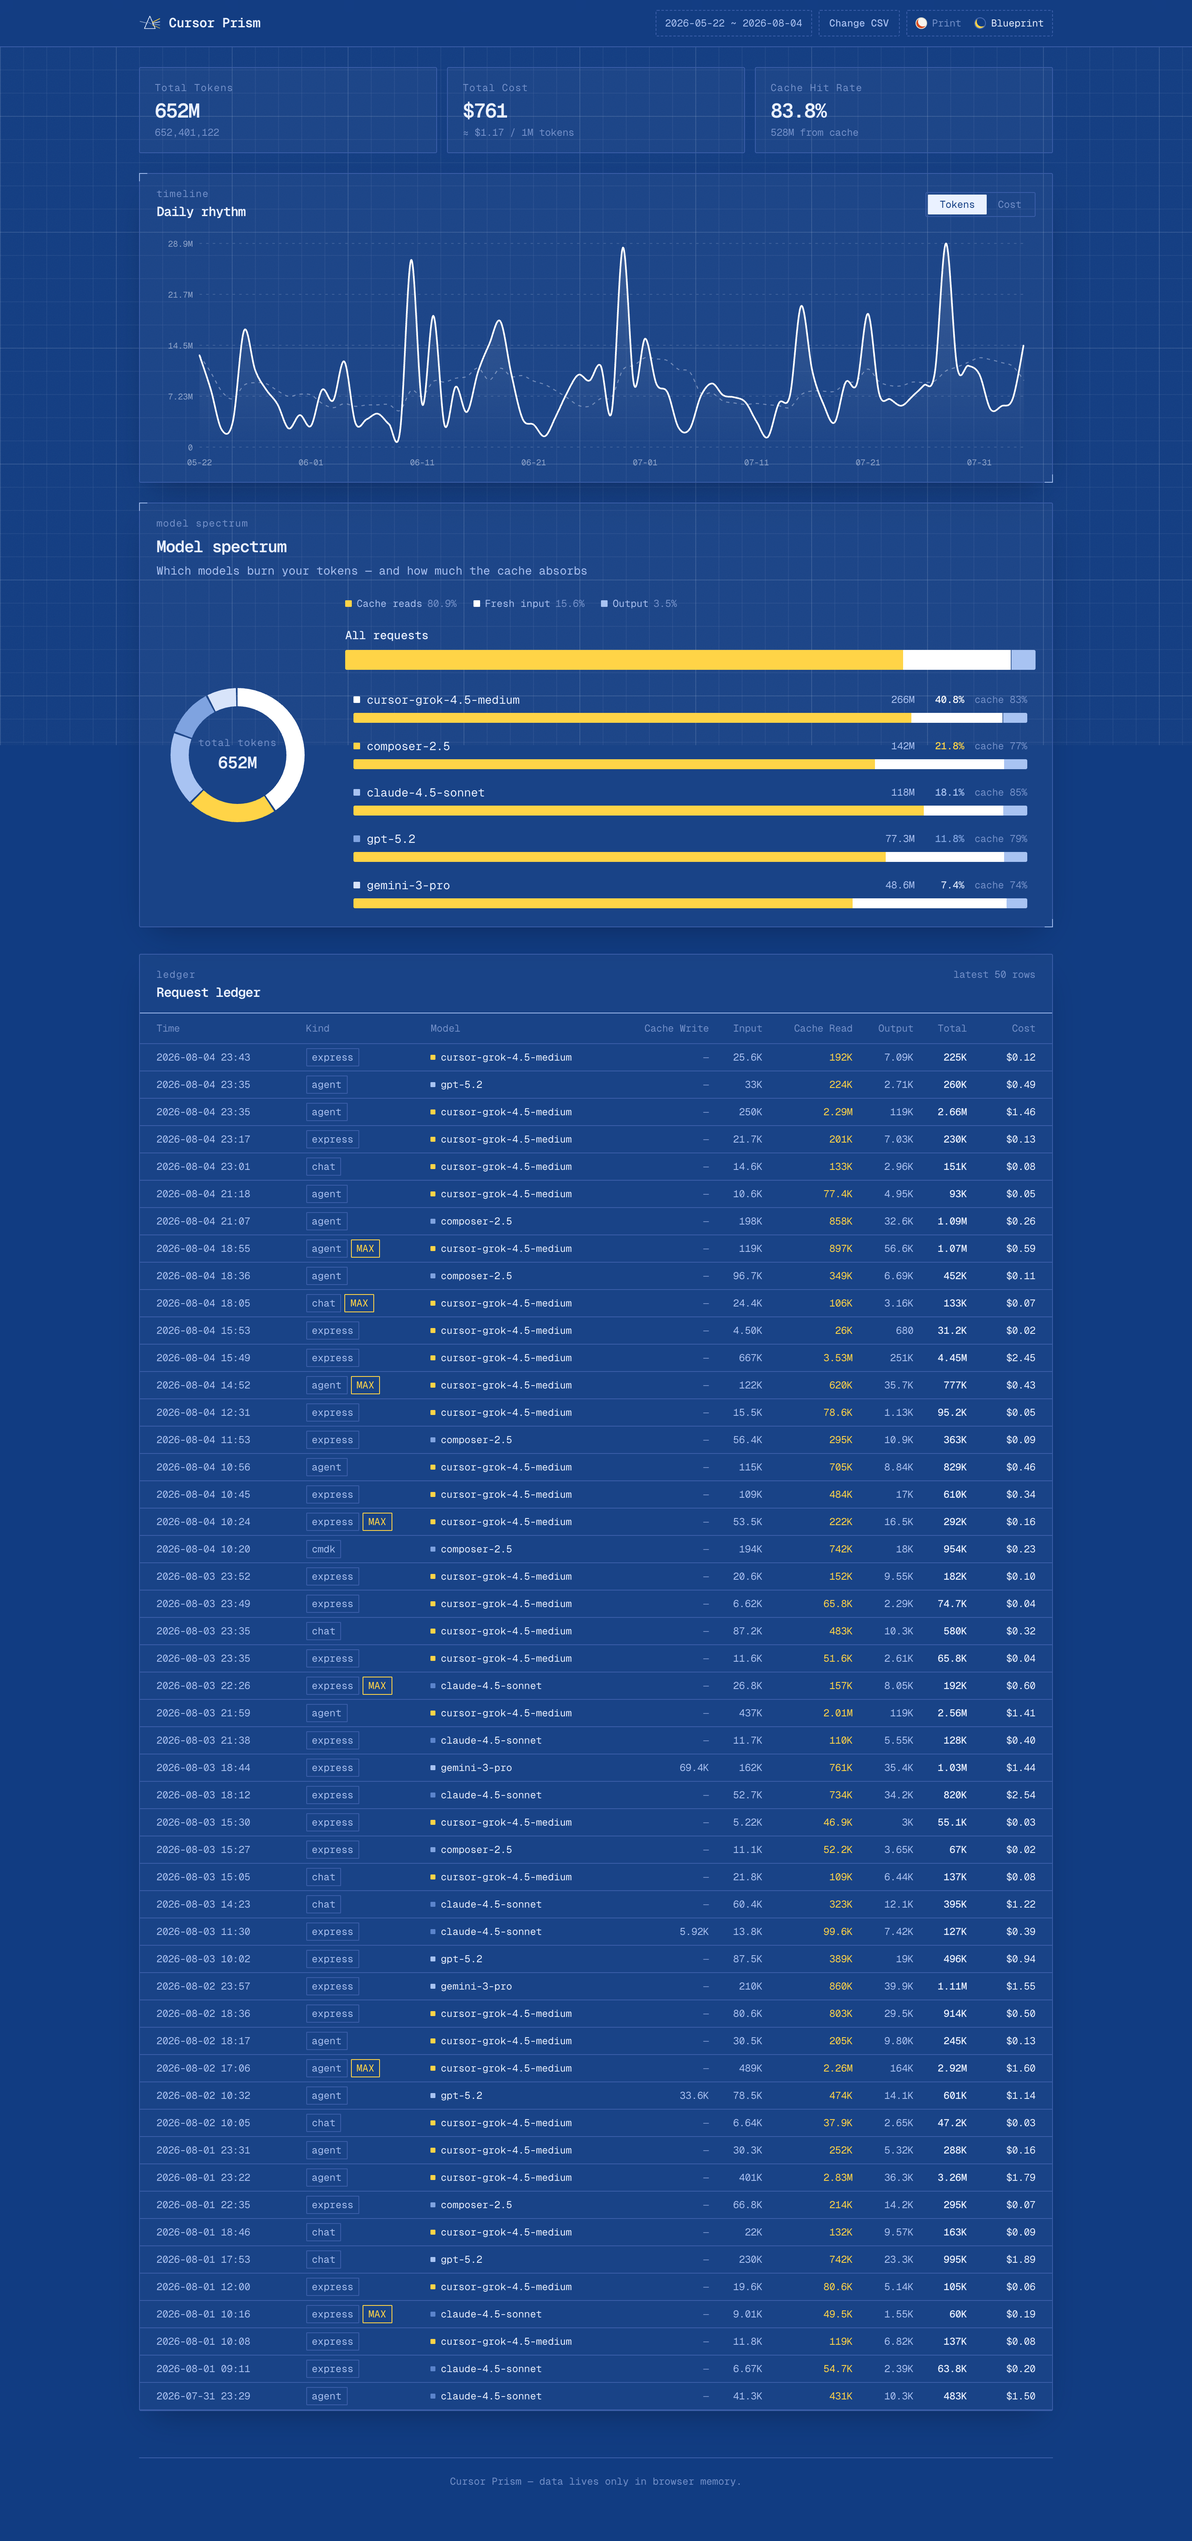
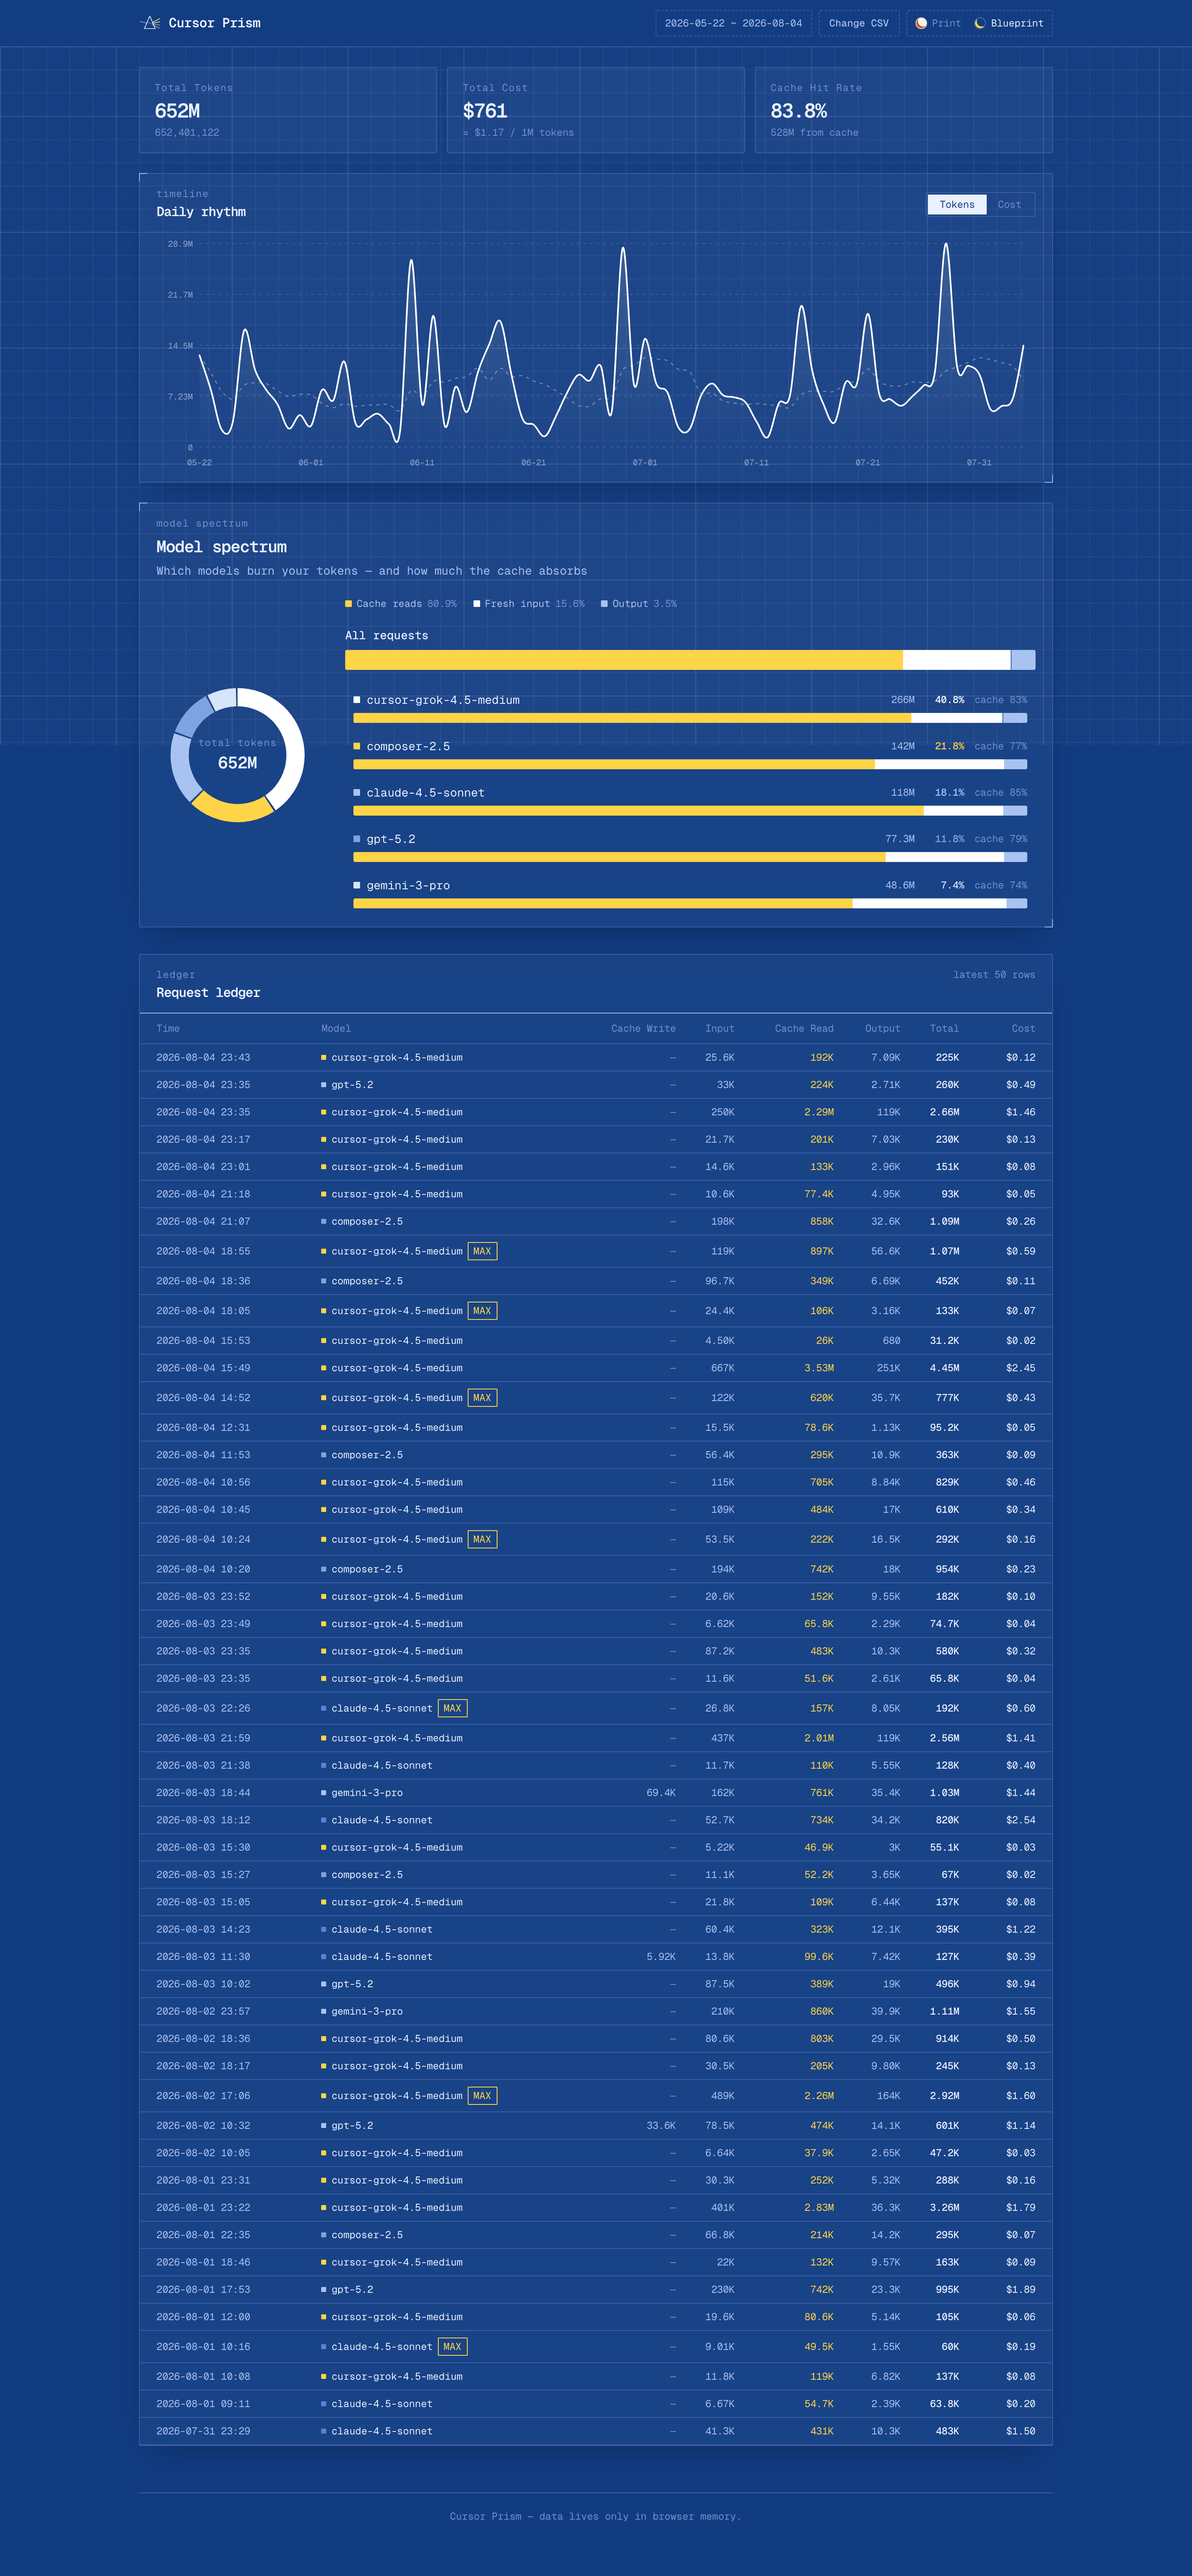
refine(ledger): drop the kind column, hide cache write when the dataset has none
Kind added no reading value, so the column is gone. Cache write stays
but only renders when at least one row in the full dataset reports it;
the MAX badge moves into the model cell so no information is lost.

diff --git a/src/routes/dashboard.tsx b/src/routes/dashboard.tsx
@@ -42,6 +42,7 @@ function Dashboard() {
 			recent: [...rows]
 				.sort((a, b) => b.date.getTime() - a.date.getTime())
 				.slice(0, 50),
+			hasCacheWrite: rows.some((r) => r.inputWithCacheWrite > 0),
 		};
 	}, [rows]);
 
@@ -208,7 +209,10 @@ function Dashboard() {
 								latest {analytics.recent.length} rows
 							</span>
 						</div>
-						<DetailTable rows={analytics.recent} />
+						<DetailTable
+							rows={analytics.recent}
+							showCacheWrite={analytics.hasCacheWrite}
+						/>
 					</Card>
 				</section>
 
@@ -220,24 +224,32 @@ function Dashboard() {
 	);
 }
 
-function DetailTable({ rows }: { rows: UsageRow[] }) {
+function DetailTable({
+	rows,
+	showCacheWrite,
+}: {
+	rows: UsageRow[];
+	/** The whole dataset decides: no cache writes anywhere, no column */
+	showCacheWrite: boolean;
+}) {
 	const tokens = useChartTokens();
-	/** Zero renders as a quiet dash, so an unused cache-write column stays calm */
+	/** Zero renders as a quiet dash */
 	const tok = (n: number) =>
 		n > 0 ? formatTokens(n) : <span className="text-ink-3">—</span>;
 	return (
 		<div className="overflow-x-auto">
-			<table className="w-full min-w-[880px] text-left text-xs">
+			<table className="w-full min-w-[720px] text-left text-xs">
 				<thead>
 					<tr className="border-t border-t-line-strong border-b border-b-line text-ink-3">
 						<th className="px-5 py-2.5 font-mono font-normal tabular-nums tracking-[-0.01em]">
 							Time
 						</th>
-						<th className="px-2 py-2.5 font-normal">Kind</th>
 						<th className="px-2 py-2.5 font-normal">Model</th>
-						<th className="px-2 py-2.5 text-right font-mono font-normal tabular-nums tracking-[-0.01em]">
-							Cache Write
-						</th>
+						{showCacheWrite ? (
+							<th className="px-2 py-2.5 text-right font-mono font-normal tabular-nums tracking-[-0.01em]">
+								Cache Write
+							</th>
+						) : null}
 						<th className="px-2 py-2.5 text-right font-mono font-normal tabular-nums tracking-[-0.01em]">
 							Input
 						</th>
@@ -265,16 +277,6 @@ function DetailTable({ rows }: { rows: UsageRow[] }) {
 								{formatDateTime(r.date)}
 							</td>
 							<td className="px-2 py-2">
-								<span className="rounded-[1px] border border-line px-1.5 py-0.5 text-xs text-ink-2">
-									{r.kind}
-								</span>
-								{r.maxMode ? (
-									<span className="ml-1 rounded-[1px] border border-accent px-1.5 py-0.5 text-xs text-accent">
-										MAX
-									</span>
-								) : null}
-							</td>
-							<td className="px-2 py-2">
 								<span className="flex items-center gap-1.5 text-ink">
 									<span
 										className="h-1.5 w-1.5 shrink-0 rounded-[1px]"
@@ -283,11 +285,18 @@ function DetailTable({ rows }: { rows: UsageRow[] }) {
 										}}
 									/>
 									<span className="max-w-[180px] truncate">{r.model}</span>
+									{r.maxMode ? (
+										<span className="rounded-[1px] border border-accent px-1.5 py-0.5 text-xs text-accent">
+											MAX
+										</span>
+									) : null}
 								</span>
 							</td>
-							<td className="px-2 py-2 text-right font-mono tabular-nums tracking-[-0.01em] text-ink-2">
-								{tok(r.inputWithCacheWrite)}
-							</td>
+							{showCacheWrite ? (
+								<td className="px-2 py-2 text-right font-mono tabular-nums tracking-[-0.01em] text-ink-2">
+									{tok(r.inputWithCacheWrite)}
+								</td>
+							) : null}
 							<td className="px-2 py-2 text-right font-mono tabular-nums tracking-[-0.01em] text-ink-2">
 								{tok(r.inputWithoutCacheWrite)}
 							</td>
